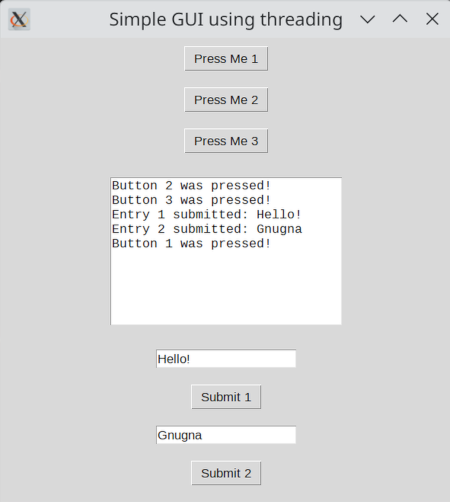
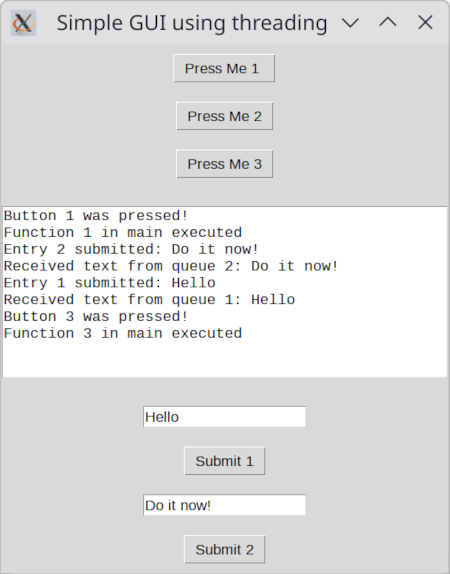
changed message text

diff --git a/src/main.py b/src/main.py
@@ -23,7 +23,7 @@ def main_loop(flags_from_gui, myfunc, queues_from_gui, queues_to_gui):
             try:
                 text = text_queue.get_nowait()
                 print(f"Received text from gui queue {i + 1}: {text}")
-                queues_to_gui.put(f"Received text from gui queue {i + 1}: {text}")
+                queues_to_gui.put(f"Received text from main queue {i + 1}: {text}")
                 # Here you can add code to handle the text
             except queue.Empty:
                 pass        
